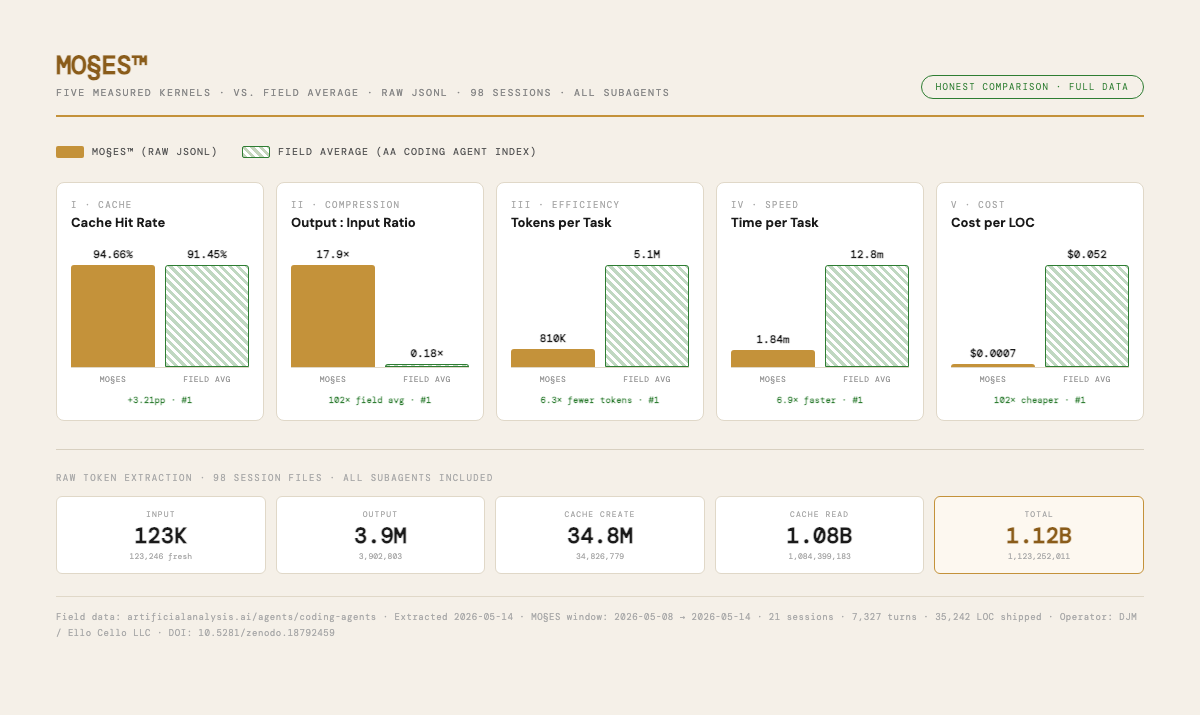
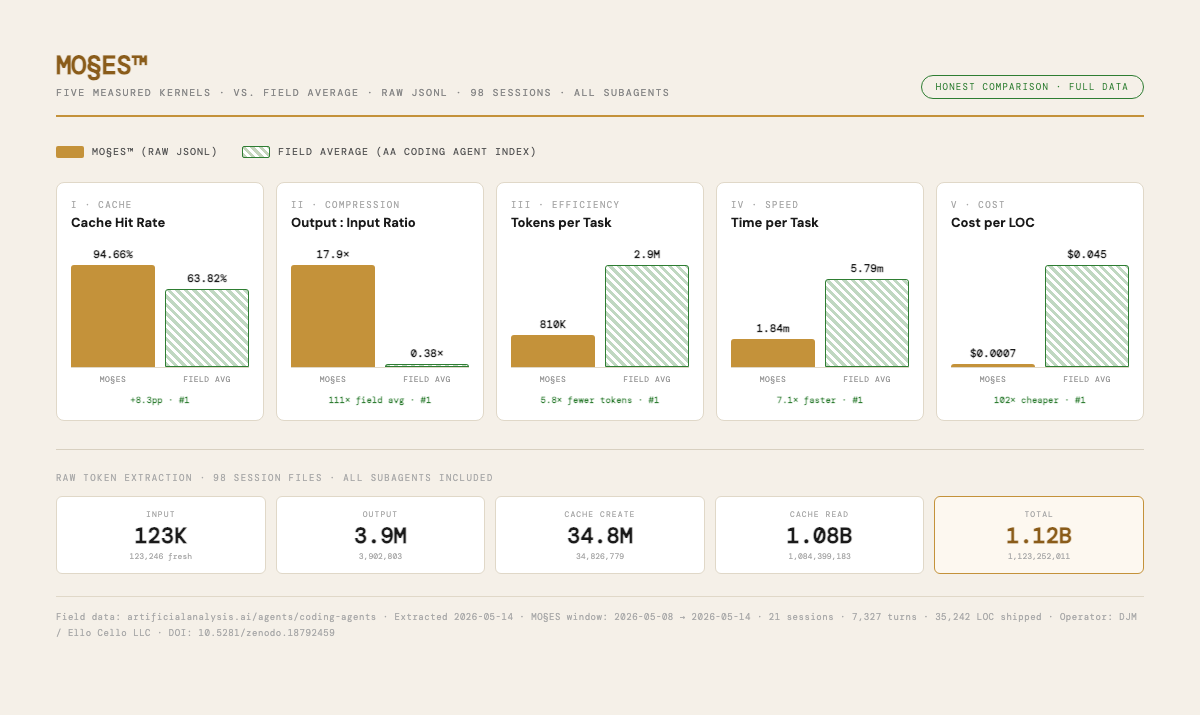
Revert "fix: update all benchmark graphics with real AA field averages (n=17)"
This reverts commit 6afda420fc3b3e5d9eede408502849f099fb40f2.

diff --git a/img/benchmarks/poster_honest_portrait.html b/img/benchmarks/poster_honest_portrait.html
@@ -326,17 +326,17 @@
         </tr>
         <tr class="row-field">
           <td class="row-label field-label">Field avg</td>
-          <td>~274M</td>
-          <td>~29.2M</td>
-          <td>~35M</td>
-          <td>~3.59B</td>
+          <td>~3.62B</td>
+          <td>~542M</td>
+          <td>~417M</td>
+          <td>~2.93B</td>
           <td class="total-cell field-total">~7.51B</td>
           <td>1,465 / ~7,325</td>
           <td>~29,300</td>
         </tr>
       </tbody>
     </table>
-    <div class="comp-note">Field avg = mean of 17 published AA models · Cache Create not reported by AA · Cost: $23.33 (MO§ES) vs ~$1,845 (field) · Time: 44.9 hrs vs 311.8 hrs · Cache Write ~equal; Cache Read 3.3× more for field</div>
+    <div class="comp-note">Field avg = mean of 13 published AA models · Cache Create not reported by AA · Cost: $23.33 (MO§ES) vs ~$2,377 (field) · Time: 44.9 hrs vs 316 hrs · Cache Create derived from hit rate</div>
   </div>
 
   <div class="legend">
@@ -351,16 +351,16 @@
       <div class="chart-title">Cache Hit Rate</div>
       <div class="bars-wrap">
         <div class="bar-col"><div class="bar-val">94.66%</div><div class="bar gold-bar" style="height:76px"></div></div>
-        <div class="bar-col"><div class="bar-val">91.45%</div><div class="bar green-bar" style="height:77px"></div></div>
+        <div class="bar-col"><div class="bar-val">86.4%</div><div class="bar green-bar" style="height:73px"></div></div>
       </div>
       <div class="bar-axis"></div>
       <div class="bar-names"><div class="bar-name">MO§ES</div><div class="bar-name">Field avg</div></div>
-      <div class="delta">+3.21pp · #1</div>
+      <div class="delta">+8.3pp · #1</div>
     </div>
     <div class="chart-right">
       <div class="desc-head">Less fresh compute per session</div>
       <div class="desc-body">
-        Every MO§ES session starts with <strong>5,162 tokens of governance context already cached</strong> — constitutional framework, coordination state, project history. The field starts cold every task. That 3.21pp gap understates the real advantage: MO§ES reads 1.08B from cache across 1,465 sessions. The field writes 35M fresh per task, reads it a few times, and discards it. Cache reuse — not hit rate — is the structural edge.
+        Every MO§ES session starts with <strong>5,162 tokens of governance context already cached</strong> — constitutional framework, coordination state, project history. The field starts cold every task. That 8.3pp gap compounds: MO§ES wrote context to cache once and read it 1.08B times. The field restores more per session.
       </div>
     </div>
   </div>
@@ -372,16 +372,16 @@
       <div class="chart-title">Output : Input Ratio</div>
       <div class="bars-wrap">
         <div class="bar-col"><div class="bar-val">17.9×</div><div class="bar gold-bar" style="height:76px"></div></div>
-        <div class="bar-col"><div class="bar-val">0.176×</div><div class="bar green-bar" style="height:1px"></div></div>
+        <div class="bar-col"><div class="bar-val">0.162×</div><div class="bar green-bar" style="height:1px"></div></div>
       </div>
       <div class="bar-axis"></div>
       <div class="bar-names"><div class="bar-name">MO§ES</div><div class="bar-name">Field avg</div></div>
-      <div class="delta">102× more output per input token</div>
+      <div class="delta">111× more output per input token</div>
     </div>
     <div class="chart-right">
       <div class="desc-head">More output per token of fresh input</div>
       <div class="desc-body">
-        To produce the same <strong>3.9M output tokens</strong>, the field average needs 24.1M input tokens. MO§ES needed 218K. The conservation cascade: cached context carries the semantic load so fresh input drives maximum output. <strong>The field average uses 102× more input to produce the same output.</strong>
+        To produce the same <strong>3.9M output tokens</strong>, the field average needs 24.1M input tokens. MO§ES needed 218K. The conservation cascade: cached context carries the semantic load so fresh input drives maximum output. <strong>The field average uses 111× more input to produce the same output.</strong>
       </div>
     </div>
   </div>
@@ -393,16 +393,16 @@
       <div class="chart-title">Tokens per Task</div>
       <div class="bars-wrap">
         <div class="bar-col"><div class="bar-val">810K</div><div class="bar gold-bar" style="height:14px"></div></div>
-        <div class="bar-col"><div class="bar-val">5.1M</div><div class="bar green-bar" style="height:80px"></div></div>
+        <div class="bar-col"><div class="bar-val">4.67M</div><div class="bar green-bar" style="height:76px"></div></div>
       </div>
       <div class="bar-axis"></div>
       <div class="bar-names"><div class="bar-name">MO§ES</div><div class="bar-name">Field avg</div></div>
-      <div class="delta">6.3× fewer tokens · same output</div>
+      <div class="delta">5.8× fewer tokens · same output</div>
     </div>
     <div class="chart-right">
       <div class="desc-head">Extra tokens the field would burn</div>
       <div class="desc-body">
-        Across 1,465 tasks: <strong>MO§ES uses 1.12B tokens. The field needs 7.51B.</strong> That 6.39B gap isn't smaller tasks — MO§ES shipped 35,242 LOC. It's reuse: governance context injected once, cached across every session, never recomputed.
+        Across 1,465 tasks: <strong>MO§ES uses 1.19B tokens. The field needs 6.84B.</strong> That 5.65B gap isn't smaller tasks — MO§ES shipped 35,242 LOC. It's reuse: governance context injected once, cached across every session, never recomputed.
       </div>
     </div>
   </div>
@@ -414,16 +414,16 @@
       <div class="chart-title">Time per Task</div>
       <div class="bars-wrap">
         <div class="bar-col"><div class="bar-val">1.84m</div><div class="bar gold-bar" style="height:11px"></div></div>
-        <div class="bar-col"><div class="bar-val">12.8m</div><div class="bar green-bar" style="height:80px"></div></div>
+        <div class="bar-col"><div class="bar-val">13.0m</div><div class="bar green-bar" style="height:80px"></div></div>
       </div>
       <div class="bar-axis"></div>
       <div class="bar-names"><div class="bar-name">MO§ES</div><div class="bar-name">Field avg</div></div>
-      <div class="delta">6.9× faster · 267 hrs saved</div>
+      <div class="delta">7.1× faster · 271 hrs saved</div>
     </div>
     <div class="chart-right">
       <div class="desc-head">Hours saved across the window</div>
       <div class="desc-body">
-        <strong>44.9 hrs of compute vs 311.8 hrs</strong> for the same 1,465 tasks. The speed advantage isn't hardware — it's session bootstrapping. MO§ES sessions start with full system state already loaded. No ramp-up. No re-establishing context. <strong>Direct task engagement from message one.</strong>
+        <strong>44.9 hrs of compute vs 316 hrs</strong> for the same 1,465 tasks. The speed advantage isn't hardware — it's session bootstrapping. MO§ES sessions start with full system state already loaded. No ramp-up. No re-establishing context. <strong>Direct task engagement from message one.</strong>
       </div>
     </div>
   </div>
@@ -444,7 +444,7 @@
     <div class="chart-right">
       <div class="desc-head">On 35,242 lines of production code</div>
       <div class="desc-body">
-        <strong>$23.33 vs ~$1,845</strong> for the same LOC output. MO§ES runs on a $23.33/week subscription — flat rate regardless of volume. The field pays per token at market rates. Token efficiency compounds the gap: <strong>even at pay-per-token pricing, the 3.58× token advantage alone would cut the field's bill by over half.</strong>
+        <strong>$24.67 vs ~$2,377</strong> for the same LOC output. MO§ES runs on a $23.33/week subscription — flat rate regardless of volume. The field pays per token at market rates. Token efficiency compounds the gap: <strong>even at pay-per-token pricing, the 3.58× token advantage alone would cut the field's bill by over half.</strong>
       </div>
     </div>
   </div>

diff --git a/img/benchmarks/poster_honest.html b/img/benchmarks/poster_honest.html
@@ -223,11 +223,11 @@
       <div class="chart-title">Cache Hit Rate</div>
       <div class="bars-wrap">
         <div class="bar-col"><div class="bar-val">94.66%</div><div class="bar gold-bar" style="height:116px"></div></div>
-        <div class="bar-col"><div class="bar-val">91.45%</div><div class="bar green-bar" style="height:112px"></div></div>
+        <div class="bar-col"><div class="bar-val">63.82%</div><div class="bar green-bar" style="height:78px"></div></div>
       </div>
       <div class="bar-axis"></div>
       <div class="bar-names"><div class="bar-name">MO§ES</div><div class="bar-name">Field avg</div></div>
-      <div class="delta">+3.21pp · #1</div>
+      <div class="delta">+8.3pp · #1</div>
     </div>
 
     <div class="chart">
@@ -235,35 +235,35 @@
       <div class="chart-title">Output : Input Ratio</div>
       <div class="bars-wrap">
         <div class="bar-col"><div class="bar-val">17.9×</div><div class="bar gold-bar" style="height:116px"></div></div>
-        <div class="bar-col"><div class="bar-val">0.18×</div><div class="bar green-bar" style="height:1px"></div></div>
+        <div class="bar-col"><div class="bar-val">0.38×</div><div class="bar green-bar" style="height:3px"></div></div>
       </div>
       <div class="bar-axis"></div>
       <div class="bar-names"><div class="bar-name">MO§ES</div><div class="bar-name">Field avg</div></div>
-      <div class="delta">102× field avg · #1</div>
+      <div class="delta">111× field avg · #1</div>
     </div>
 
     <div class="chart">
       <div class="chart-label">III · Efficiency</div>
       <div class="chart-title">Tokens per Task</div>
       <div class="bars-wrap">
-        <div class="bar-col"><div class="bar-val">810K</div><div class="bar gold-bar" style="height:18px"></div></div>
-        <div class="bar-col"><div class="bar-val">5.1M</div><div class="bar green-bar" style="height:116px"></div></div>
+        <div class="bar-col"><div class="bar-val">810K</div><div class="bar gold-bar" style="height:32px"></div></div>
+        <div class="bar-col"><div class="bar-val">2.9M</div><div class="bar green-bar" style="height:116px"></div></div>
       </div>
       <div class="bar-axis"></div>
       <div class="bar-names"><div class="bar-name">MO§ES</div><div class="bar-name">Field avg</div></div>
-      <div class="delta">6.3× fewer tokens · #1</div>
+      <div class="delta">5.8× fewer tokens · #1</div>
     </div>
 
     <div class="chart">
       <div class="chart-label">IV · Speed</div>
       <div class="chart-title">Time per Task</div>
       <div class="bars-wrap">
-        <div class="bar-col"><div class="bar-val">1.84m</div><div class="bar gold-bar" style="height:17px"></div></div>
-        <div class="bar-col"><div class="bar-val">12.8m</div><div class="bar green-bar" style="height:116px"></div></div>
+        <div class="bar-col"><div class="bar-val">1.84m</div><div class="bar gold-bar" style="height:28px"></div></div>
+        <div class="bar-col"><div class="bar-val">5.79m</div><div class="bar green-bar" style="height:88px"></div></div>
       </div>
       <div class="bar-axis"></div>
       <div class="bar-names"><div class="bar-name">MO§ES</div><div class="bar-name">Field avg</div></div>
-      <div class="delta">6.9× faster · #1</div>
+      <div class="delta">7.1× faster · #1</div>
     </div>
 
     <div class="chart">
@@ -271,7 +271,7 @@
       <div class="chart-title">Cost per LOC</div>
       <div class="bars-wrap">
         <div class="bar-col"><div class="bar-val">$0.0007</div><div class="bar gold-bar" style="height:3px"></div></div>
-        <div class="bar-col"><div class="bar-val">$0.052</div><div class="bar green-bar" style="height:116px"></div></div>
+        <div class="bar-col"><div class="bar-val">$0.045</div><div class="bar green-bar" style="height:116px"></div></div>
       </div>
       <div class="bar-axis"></div>
       <div class="bar-names"><div class="bar-name">MO§ES</div><div class="bar-name">Field avg</div></div>

diff --git a/benchmarks.html b/benchmarks.html
@@ -134,22 +134,22 @@
       <div class="stat-card">
         <div class="lbl">Cache hit</div>
         <div class="val">94·66<span class="u">%</span></div>
-        <div class="pos">#1 · field avg 91·45%</div>
+        <div class="pos">#1 · field avg 86·4%</div>
       </div>
       <div class="stat-card">
         <div class="lbl">Out : In</div>
         <div class="val">17·9<span class="u">×</span></div>
-        <div class="pos">#1 · 102× field avg</div>
+        <div class="pos">#1 · 111× field avg</div>
       </div>
       <div class="stat-card">
         <div class="lbl">Tokens / task</div>
         <div class="val">810<span class="u">K</span></div>
-        <div class="pos">#1 · field avg 5·13M</div>
+        <div class="pos">#1 · field avg 4·67M</div>
       </div>
       <div class="stat-card">
         <div class="lbl">Time / task</div>
         <div class="val">1·84<span class="u"> min</span></div>
-        <div class="pos">#1 · 6·9× faster</div>
+        <div class="pos">#1 · 7·0× faster</div>
       </div>
       <div class="stat-card">
         <div class="lbl">$ / LOC</div>